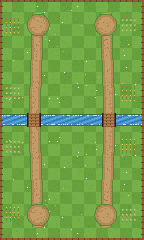
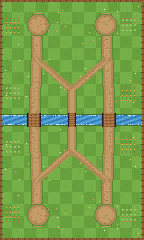
Arena: 3 passagens (ponte do meio estreita, caminho em Y até as duas torres)
Claude-Session: https://claude.ai/code/session_01F2c9wwKpd4XWAaAeM55Dzi

diff --git a/ci/tools/arte/arena.py b/ci/tools/arte/arena.py
@@ -10,6 +10,7 @@ CX, CY = PW // 2, PH // 2
 RIVER_HALF = 5          # rio: linhas CY-5 .. CY+4  (mundo ±20)
 BRIDGE_X = 37.5         # pontes em CX±37.5 (mundo ±150)
 BRIDGE_HALF = 7         # largura 14px (mundo 56)
+CENTER_BRIDGE_HALF = 4  # ponte do meio, mais estreita: 8px (mundo 32)
 TOWER_DX = 33.75        # torres em CX±33.75 (mundo ±135)
 TOWER_DY = 95           # torres em CY±95 (mundo ±380)
 
@@ -62,6 +63,30 @@ def build(seed=7):
                 elif d <= half + 1:
                     mirror_set(x, y, G3)
 
+    # caminho do meio: sai da ponte central, desce e se divide em "Y" até
+    # os caminhos das duas torres
+    fork_y = CY + 30
+    for y in range(CY + RIVER_HALF, fork_y + 1):
+        for x in range(CX - 4, CX + 4):
+            c = DIRT[0] if abs(x + 0.5 - CX) < 2.5 else DIRT[1]
+            mirror_set(x, y, c)
+        mirror_set(CX - 5, y, G3)
+        mirror_set(CX + 4, y, G3)
+    for side_x in (-1, 1):
+        target_x = CX + side_x * (BRIDGE_X + (TOWER_DX - BRIDGE_X) * 0.55)
+        target_y = CY + RIVER_HALF + int((TOWER_DY + 12 - RIVER_HALF) * 0.55)
+        steps = 60
+        for i in range(steps + 1):
+            t = i / steps
+            x_c = CX + (target_x - CX) * t
+            y_c = fork_y + (target_y - fork_y) * t
+            for dx in range(-3, 4):
+                for dy in range(-1, 2):
+                    c = DIRT[0] if abs(dx) < 2 else DIRT[1]
+                    if rnd.random() < 0.05:
+                        c = DIRT[2]
+                    mirror_set(int(x_c) + dx, int(y_c) + dy, c)
+
     # base de terra embaixo de cada torre (círculo batido)
     for side_x in (-1, 1):
         tx = CX + side_x * TOWER_DX
@@ -109,6 +134,18 @@ def build(seed=7):
                     if rel % 4 == 0 and y % 3 == 1:
                         c = WOOD[2]  # pregos
                 px[x, y] = c
+
+    # ponte do meio (estreita, de corda e tábua)
+    for y in range(CY - RIVER_HALF - 2, CY + RIVER_HALF + 2):
+        for x in range(CX - CENTER_BRIDGE_HALF, CX + CENTER_BRIDGE_HALF):
+            rel = x - (CX - CENTER_BRIDGE_HALF)
+            if rel in (0, 2 * CENTER_BRIDGE_HALF - 1):
+                c = OUT
+            elif y % 2 == 0:
+                c = WOOD[0]
+            else:
+                c = WOOD[2] if rel in (1, 2 * CENTER_BRIDGE_HALF - 2) else WOOD[1]
+            px[x, y] = c
 
     # cerca em volta do campo (só nas laterais e pontas, sem atrapalhar)
     for y in range(PH):
